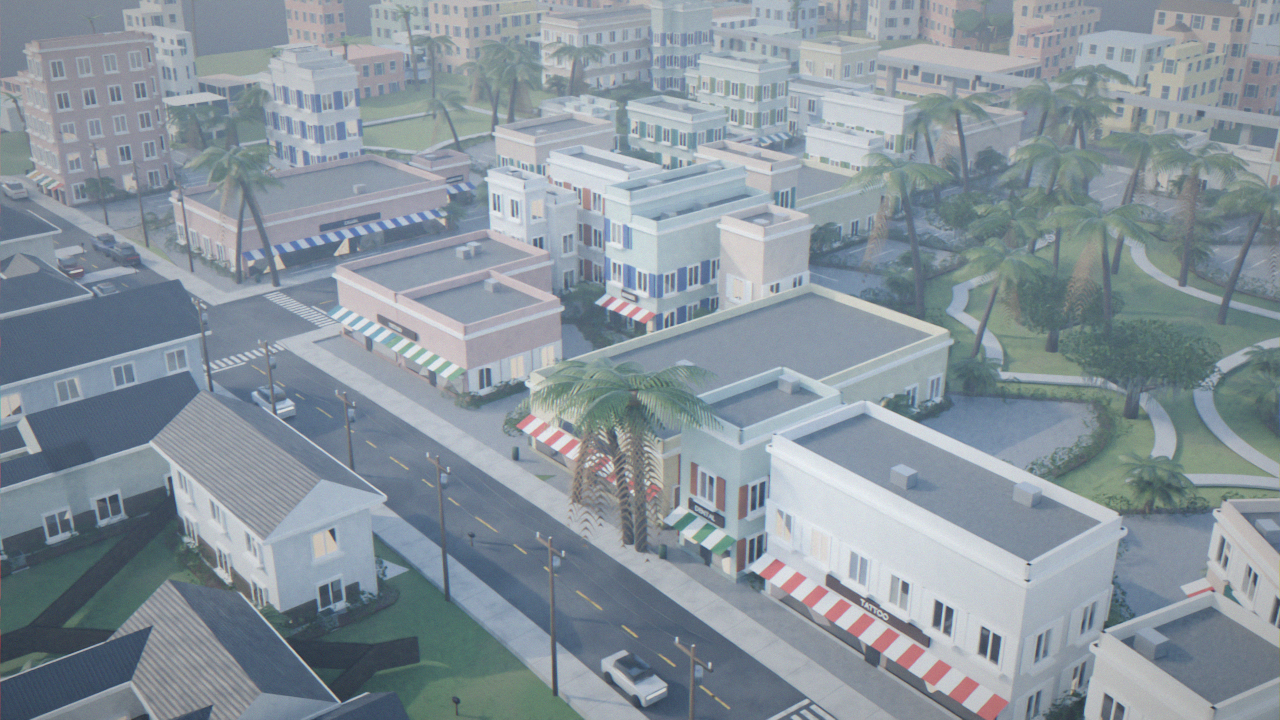
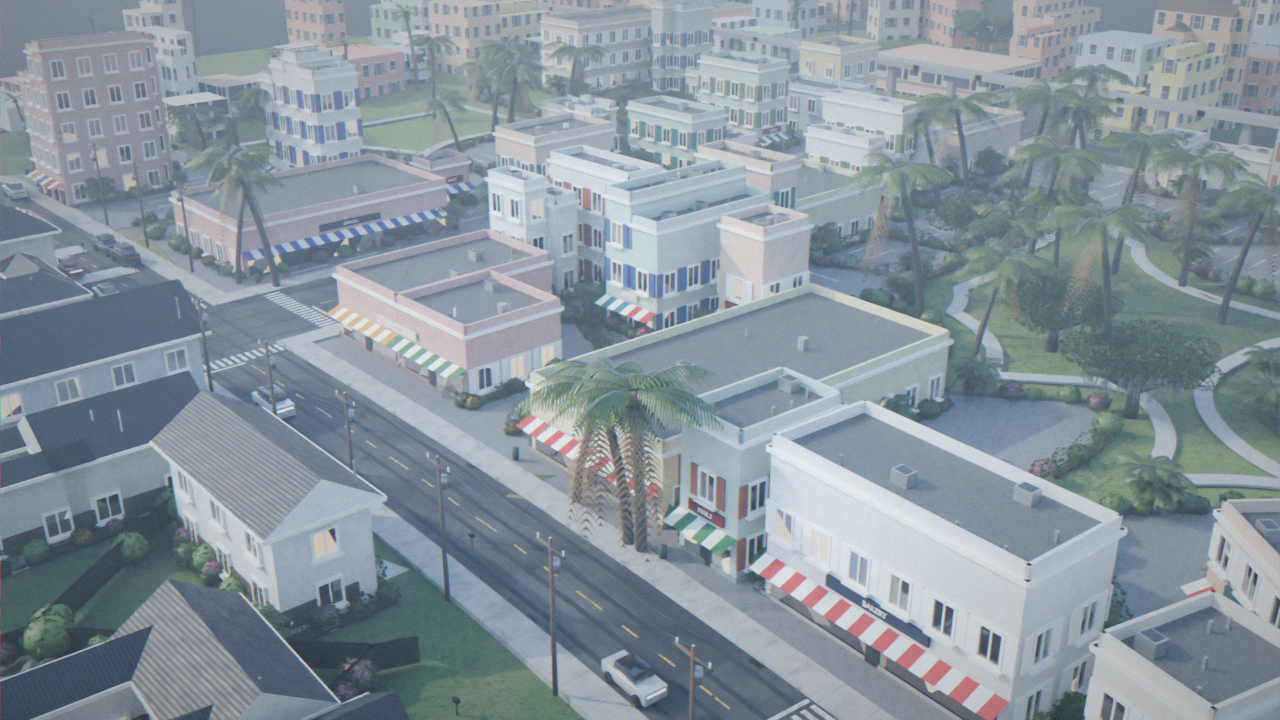
Ground clutter (manholes, drains, tar-sealed cracks, puddles, litter, weeds, fallen fronds), Florida plants (hibiscus, croton, sea grape, bougainvillea on fences), St. Augustine grass, rooftop equipment and house solar panels
Claude-Session: https://claude.ai/code/session_01PWmpu53kThn7KFGp88wUgC

diff --git a/costa-verde/tools/blender/realism.py b/costa-verde/tools/blender/realism.py
@@ -216,7 +216,7 @@ def realify(objs, ground_z):
             "door": mat_simple("real_door", (0, 0, 0), 0.5, vertex=True), "awning": mat_simple("real_awning", (0, 0, 0), 0.85, vertex=True),
             "roof_flat": mat_concrete((0.5, 0.49, 0.46), "real_roof_flat"), "metal": mat_simple("real_metal", (176, 178, 180), 0.35, 0.8),
             "pool": mat_simple("real_pool", (40, 150, 190), 0.03), "paint": mat_simple("real_paint", (0, 0, 0), 0.6, vertex=True),
-            "pole": mat_simple("real_pole", (80, 82, 84), 0.45, 0.7), "lamp": mat_simple("real_lamp", (255, 240, 210), 0.3, emit=(1, 0.85, 0.6))}
+            "pole": mat_simple("real_pole", (80, 82, 84), 0.45, 0.7), "solar": mat_solar(), "lamp": mat_simple("real_lamp", (255, 240, 210), 0.3, emit=(1, 0.85, 0.6))}
     for o in objs:
         me = o.data
         for i, mt in enumerate(me.materials):
@@ -512,6 +512,7 @@ def areca_clump(seed):
 def plant_beds(beds, gy, rng, keep_clear=None):
     """Fill mulch beds and lot-edge strips with shrubs, flowering bushes and areca clumps every few studs."""
     kinds = [shrubs_by_name(n) for n in ("shrub_green", "shrub_pink", "shrub_white", "hedge")]
+    kinds += list(PLANTS.values()) if PLANTS else []
     arecas = [areca_clump(900 + k) for k in range(3)]
     geoms = beds.geoms if hasattr(beds, "geoms") else [beds]
     n = 0
@@ -705,6 +706,7 @@ def street_life(roads, asphalt, junctions, buildings, zone, gy, rng):
 
 
 _SHRUBS = {}
+PLANTS = {}
 
 
 def shrubs_by_name(name):
@@ -738,12 +740,12 @@ def grass(terrain_obj, zone, lawn, density=900000):
     st.factor_random = 0.6
     st.brownian_factor = 0.08
     try:
-        st.root_radius, st.tip_radius = 0.06, 0.0
+        st.root_radius, st.tip_radius = 0.1, 0.02
         st.radius_scale = 1.0
     except AttributeError:
         pass
     st.render_type = "PATH"
-    blade = mat_foliage("grass_blades", (84, 118, 46), 0.35)
+    blade = mat_foliage("grass_blades", (72, 112, 58), 0.35)  # St. Augustine: broad, blue-green
     me.materials.append(blade)
     st.material = len(me.materials)
     return ps
@@ -1082,7 +1084,7 @@ def landcover(detailed, street_area, zone, gy, rng, palms, oaks):
     me.from_pydata(verts, [], faces)
     me.materials.append(fence_mat)
     bpy.context.collection.objects.link(bpy.data.objects.new("fences", me))
-    return unary_union(lawn), unary_union(mulch)
+    return unary_union(lawn), unary_union(mulch), fences
 
 
 def leaf_card(name, length, width, tint):
@@ -1173,4 +1175,169 @@ def real_trees(oaks, palms):
         if c:
             for o in c.objects:
                 foliate(o, shrub_leaf, 260, 1.1)
+    for c in PLANTS.values():  # new species: leaves over the flower-speckled body, which shows through the gaps
+        for o in c.objects:
+            foliate(o, shrub_leaf, 320, 1.2)
+            o.show_instancer_for_render = True
     _ = os
+
+
+def mat_solar():
+    """PV panel: dark blue cells in a silver grid, glossy."""
+    m, nt, b = _nodes("real_solar")
+    grid = _n(nt, "ShaderNodeTexBrick", Scale=0.9, **{"Mortar Size": 0.04})
+    nt.links.new(_coords(nt), grid.inputs["Vector"])
+    grid.inputs["Color1"].default_value = grid.inputs["Color2"].default_value = (0.01, 0.015, 0.04, 1)
+    grid.inputs["Mortar"].default_value = (0.5, 0.5, 0.52, 1)
+    nt.links.new(grid.outputs["Color"], b.inputs["Base Color"])
+    b.inputs["Roughness"].default_value = 0.06
+    b.inputs["Coat Weight"].default_value = 1.0
+    return m
+
+
+# ---------------------------------------------------------------- 5. ground clutter
+
+def _decals(name, polys, y, mat):
+    _slab(name, unary_union(polys) if polys else Polygon(), y - 0.02, y, mat)
+
+
+def clutter(roads, asphalt, walk_outer, zone, gy, rng):
+    """Manholes, storm drains at the curbs, tyre wear, tar-sealed cracks, puddles, litter, weeds in the cracks,
+    fallen palm fronds."""
+    clip = sbox(*zone)
+    manholes, drains, tyres, tar, puddles = [], [], [], [], []
+    for r in roads:
+        ax, az, bx, bz, w = r["ax"], r["az"], r["bx"], r["bz"], r["width"]
+        L = math.hypot(bx - ax, bz - az)
+        if L < 20:
+            continue
+        ux, uz, nx, nz = (bx - ax) / L, (bz - az) / L, -(bz - az) / L, (bx - ax) / L
+        if rng.random() < 0.6:
+            t = rng.uniform(0.2, 0.8) * L
+            manholes.append(Point(ax + ux * t + nx * rng.uniform(-w / 4, w / 4), az + uz * t + nz * rng.uniform(-w / 4, w / 4)).buffer(1.4, 12))
+        for side in (-1, 1):  # storm drain grates at the gutter
+            if rng.random() < 0.5:
+                t = rng.uniform(0.1, 0.9) * L
+                cx, cz = ax + ux * t + nx * (w / 2 - 0.8) * side, az + uz * t + nz * (w / 2 - 0.8) * side
+                drains.append(LineString([(cx - ux * 1.6, cz - uz * 1.6), (cx + ux * 1.6, cz + uz * 1.6)]).buffer(0.7, cap_style="flat"))
+            for lane in (0.25, 0.75):  # polished tyre tracks in each lane
+                o = side * w / 2 * lane
+                tyres.append(LineString([(ax + nx * o, az + nz * o), (bx + nx * o, bz + nz * o)]).buffer(0.7, cap_style="flat"))
+        for _ in range(rng.randint(0, 3)):  # tar-sealed cracks: wiggly lines
+            t0 = rng.uniform(0, L)
+            pts = []
+            x, z = ax + ux * t0 + nx * rng.uniform(-w / 2, w / 2), az + uz * t0 + nz * rng.uniform(-w / 2, w / 2)
+            a = rng.uniform(0, 6.28)
+            for _ in range(rng.randint(4, 10)):
+                pts.append((x, z))
+                a += rng.uniform(-0.8, 0.8)
+                x, z = x + math.cos(a) * 2.5, z + math.sin(a) * 2.5
+            tar.append(LineString(pts).buffer(0.18))
+        if rng.random() < 0.35:  # a puddle in a low spot near the gutter
+            t = rng.uniform(0.2, 0.8) * L
+            cx, cz = ax + ux * t + nx * (w / 2 - 3), az + uz * t + nz * (w / 2 - 3)
+            puddles.append(unary_union([Point(cx + rng.uniform(-3, 3), cz + rng.uniform(-1.5, 1.5)).buffer(rng.uniform(1, 2.6), 10) for _ in range(5)]))
+    road = asphalt.intersection(clip)
+    _decals("manholes", [g.intersection(road) for g in manholes], gy + 0.53, mat_simple("manhole", (52, 50, 46), 0.4, 0.8))
+    _decals("drains", drains, gy + 0.53, mat_simple("drain", (20, 20, 20), 0.5, 0.6))
+    tyre_m = mat_simple("tyre_wear", (36, 36, 38), 0.82)  # subtle: slightly darker, not shinier
+    _ = tyre_m  # shortcut: tyre wear as decals read as painted stripes; needs a blended asphalt-shader mask instead
+    _decals("tar_snakes", [g.intersection(road) for g in tar], gy + 0.51, mat_simple("tar", (8, 8, 8), 0.25))
+    pud = mat_simple("puddle", (14, 16, 18), 0.0)
+    pud.node_tree.nodes["Principled BSDF"].inputs["Coat Weight"].default_value = 1.0
+    _decals("puddles", [g.intersection(road) for g in puddles], gy + 0.515, pud)
+    # litter and weeds
+    litter = []
+    for name, size, col in (("cup", (0.5, 0.5, 0.7), (236, 236, 230)), ("can", (0.35, 0.35, 0.6), (190, 40, 40)), ("paper", (1.0, 0.8, 0.05), (220, 216, 200)),
+                            ("bag", (1.2, 0.9, 0.4), (40, 40, 44))):
+        coll = _collection("litter_" + name)
+        bm = bmesh.new()
+        _cube(bm, (0, 0, size[2] / 2), size, 0)
+        _obj("litter_" + name, bm, [mat_simple("litter_" + name, col, 0.6)], coll)
+        litter.append(coll)
+    weed = _collection("weed")
+    bm = bmesh.new()
+    for k in range(9):
+        a = k * 0.7
+        res = bmesh.ops.create_cone(bm, cap_ends=False, segments=3, radius1=0.12, radius2=0.0, depth=rng.uniform(0.8, 1.8))
+        bmesh.ops.rotate(bm, verts=res["verts"], cent=(0, 0, 0), matrix=__import__("mathutils").Matrix.Rotation(0.4, 3, Vector((math.cos(a), math.sin(a), 0))))
+        bmesh.ops.translate(bm, vec=(math.cos(a) * 0.3, math.sin(a) * 0.3, 0.5), verts=res["verts"])
+    _obj("weed", bm, [mat_foliage("weed_mat", (110, 130, 60), 0.3)], weed)
+    walk = walk_outer.difference(asphalt).intersection(clip)
+    x0, z0, x1, z1 = walk.bounds
+    from shapely.prepared import prep
+    pw = prep(walk)
+    for _ in range(int(walk.area / 260)):
+        x, z = rng.uniform(x0, x1), rng.uniform(z0, z1)
+        if pw.contains(Point(x, z)):
+            place(rng.choice(litter), x, z, gy + 1.0, rng.uniform(0, 6.28))
+    edge = asphalt.intersection(clip).boundary
+    t = 0.0
+    while t < edge.length:  # weeds where the curb meets the road and the sidewalk joints
+        if rng.random() < 0.35:
+            p = edge.interpolate(t)
+            place(weed, p.x, p.y, gy + 0.5, rng.uniform(0, 6.28), rng.uniform(0.6, 1.3))
+        t += 5
+    fallen = mat_frond("fallen_frond", (110, 86, 50), (160, 130, 80))
+    for o in list(bpy.data.objects):  # fallen fronds under palms
+        ic = o.instance_collection
+        if ic and ic.name.startswith("hero_palm") and o.type == "EMPTY":
+            for _ in range(rng.randint(0, 2)):
+                a = rng.uniform(0, 6.28)
+                d = rng.uniform(3, 9)
+                x, y = o.location.x + math.cos(a) * d, o.location.y + math.sin(a) * d
+                L = rng.uniform(6, 11)
+                me = bpy.data.meshes.new("frond")
+                ca, sa = math.cos(a), math.sin(a)
+                me.from_pydata([(x, y, gy + 0.6), (x + ca * L, y + sa * L, gy + 0.6), (x + ca * L - sa * 1.6, y + sa * L + ca * 1.6, gy + 0.62),
+                                (x - sa * 1.2, y + ca * 1.2, gy + 0.62)], [], [(0, 1, 2, 3)])
+                me.uv_layers.new(name="UVMap")
+                me.materials.append(fallen)
+                bpy.context.collection.objects.link(bpy.data.objects.new("frond", me))
+
+
+# ---------------------------------------------------------------- 6. more Florida plants
+
+def florida_plants():
+    """Hibiscus (red flowers), croton (variegated red/yellow), sea grape (big round leaves), bougainvillea (magenta)."""
+    out = {}
+    specs = {"hibiscus": ((50, 90, 40), (200, 30, 40), 2.6, 0.35), "croton": ((150, 120, 30), (180, 50, 30), 2.0, 0.6),
+             "seagrape": ((92, 130, 60), (150, 60, 50), 3.4, 0.15), "bougainvillea": ((60, 90, 40), (200, 40, 140), 3.0, 0.65)}
+    for name, (leaf, flower, size, share) in specs.items():
+        coll = _collection(name)
+        bm = bmesh.new()
+        res = bmesh.ops.create_icosphere(bm, subdivisions=3, radius=1)
+        bmesh.ops.scale(bm, vec=(size, size, size * 0.85), verts=res["verts"])
+        bmesh.ops.translate(bm, vec=(0, 0, size * 0.75), verts=res["verts"])
+        m, nt, b = _nodes(name + "_mat")
+        co = _coords(nt)
+        n1 = _n(nt, "ShaderNodeTexVoronoi", Scale=2.2)
+        nt.links.new(co, n1.inputs["Vector"])
+        c = _mix(nt, _lin(leaf), _lin(flower), _rng(nt, n1.outputs["Distance"], share * 0.6, share * 0.6 + 0.05, 1, 0))
+        nt.links.new(c, b.inputs["Base Color"])
+        b.inputs["Roughness"].default_value = 0.5
+        b.inputs["Subsurface Weight"].default_value = 0.15
+        o = _obj(name, bm, [m], coll)
+        tex = bpy.data.textures.new(name + "_disp", "CLOUDS")
+        tex.noise_scale = 0.45
+        d = o.modifiers.new("leafy", "DISPLACE")
+        d.texture, d.strength = tex, 0.8
+        out[name] = coll
+    return out
+
+
+def plants_on_fences(fence_lines, gy, rng, plants):
+    """Bougainvillea and sea grape spilling over fences; crotons and hibiscus joining the bed mix."""
+    n = 0
+    for fl in fence_lines:
+        for ln in (fl.geoms if hasattr(fl, "geoms") else [fl]):
+            if ln.is_empty or ln.geom_type not in ("LineString", "LinearRing"):
+                continue
+            t = rng.uniform(0, 8)
+            while t < ln.length:
+                if rng.random() < 0.45:
+                    p = ln.interpolate(t)
+                    place(plants["bougainvillea" if rng.random() < 0.6 else "seagrape"], p.x, p.y, gy, rng.uniform(0, 6.28), rng.uniform(0.8, 1.4))
+                    n += 1
+                t += rng.uniform(8, 16)
+    return n

diff --git a/costa-verde/tools/blender/detail_town.py b/costa-verde/tools/blender/detail_town.py
@@ -31,7 +31,7 @@ SURF = {
     "frame": (0.5, 0, None), "roof_tile": (0.75, 0, None), "roof_flat": (0.95, 0, (176, 172, 164)),
     "metal": (0.4, 0.7, (178, 180, 182)), "awning": (0.8, 0, None), "door": (0.6, 0, None), "concrete": (0.9, 0, (198, 194, 186)),
     "asphalt": (0.92, 0, (52, 52, 55)), "paint": (0.7, 0, None), "pool": (0.05, 0, (60, 170, 210)), "wood": (0.8, 0, (150, 118, 84)),
-    "pole": (0.5, 0.6, (90, 92, 94)), "lamp": (0.3, 0, (255, 244, 214)),
+    "pole": (0.5, 0.6, (90, 92, 94)), "lamp": (0.3, 0, (255, 244, 214)), "solar": (0.08, 0.3, (22, 30, 52)),
 }
 PASTEL = [(242, 200, 168), (196, 226, 206), (246, 228, 160), (240, 170, 150), (180, 212, 230), (244, 236, 214), (236, 236, 230)]
 HOUSE_COL = [(246, 240, 224), (236, 226, 200), (214, 222, 200), (206, 220, 230), (240, 214, 190), (250, 250, 246)]
@@ -184,10 +184,38 @@ def flat_roof(m, poly, y, rng, wall_col, big=False):
         m.box("wall", (mx - n[0] * 0.4, y + 1.4, mz - n[1] * 0.4), u, L, 2.8, 0.8, wall_col)
         m.box("trim", (mx + n[0] * 0.3, y - 0.4, mz + n[1] * 0.3), u, L + 1.2, 1.0, 1.4)
     xs, zs = [p[0] for p in poly], [p[1] for p in poly]
+    def spot(margin=4):
+        for _ in range(8):
+            x, z = rng.uniform(min(xs) + margin, max(xs) - margin), rng.uniform(min(zs) + margin, max(zs) - margin)
+            if inside(poly, x, z):
+                return x, z
+        return None
     for _ in range(rng.randint(1, 4 if big else 2)):  # AC units
-        x, z = rng.uniform(min(xs) + 4, max(xs) - 4), rng.uniform(min(zs) + 4, max(zs) - 4)
-        if inside(poly, x, z):
-            m.box("metal", (x, y + 1.6, z), (1, 0), 4, 3, 3)
+        p = spot()
+        if p:
+            m.box("metal", (p[0], y + 1.6, p[1]), (1, 0), 4, 3, 3)
+            m.box("pole", (p[0], y + 3.15, p[1]), (1, 0), 3, 0.1, 2.4)  # fan grille
+    for _ in range(rng.randint(2, 5)):  # vent stacks
+        p = spot(2)
+        if p:
+            m.box("metal", (p[0], y + 1.2, p[1]), (1, 0), 0.6, 2.4, 0.6, (120, 120, 118))
+    if rng.random() < 0.5:  # satellite dish on a stub mast
+        p = spot(3)
+        if p:
+            m.box("pole", (p[0], y + 1.5, p[1]), (1, 0), 0.25, 3, 0.25)
+            m.box("trim", (p[0], y + 3.2, p[1] + 0.4), (0.7, 0.7), 2.4, 2.4, 0.3)
+    if rng.random() < 0.4:  # roof hatch
+        p = spot(3)
+        if p:
+            m.box("metal", (p[0], y + 0.6, p[1]), (1, 0), 3, 1.2, 3, (140, 140, 136))
+    if big and rng.random() < 0.7:  # HVAC duct run
+        p = spot(6)
+        if p:
+            m.box("metal", (p[0], y + 1.2, p[1]), (1, 0), max(6, (max(xs) - min(xs)) * 0.4), 1.6, 1.6)
+    if rng.random() < 0.3:  # water heater / tank
+        p = spot(3)
+        if p:
+            m.box("metal", (p[0], y + 1.8, p[1]), (1, 0), 2.2, 3.6, 2.2, (200, 200, 196))
 
 
 def inside(poly, x, z):
@@ -199,7 +227,7 @@ def inside(poly, x, z):
     return c
 
 
-def pitched_roof(m, poly, y, kind, tile_col, wall_col):
+def pitched_roof(m, poly, y, kind, tile_col, wall_col, rng=None):
     """Hip or gable roof with 2.5-stud eaves over a rectangular part."""
     xs, zs = [p[0] for p in poly], [p[1] for p in poly]
     x0, x1, z0, z1 = min(xs) - 2.5, max(xs) + 2.5, min(zs) - 2.5, max(zs) + 2.5
@@ -221,6 +249,19 @@ def pitched_roof(m, poly, y, kind, tile_col, wall_col):
         m.face("roof_tile", [e[1], r0, r1, e[2]], tile_col)
         m.face("roof_tile", [e[3], r1, r0, e[0]], tile_col)
         ends = [(e[0], r0, e[1]), (e[2], r1, e[3])]
+    if rng and rng.random() < 0.3:  # rooftop solar on the first slope: inset panel array lifted off the tiles
+        a, b, c, d = (e[0], r0, r1, e[1]) if along_x else (e[1], r0, r1, e[2])
+        def lerp(p, q, t):
+            return tuple(p[i] + (q[i] - p[i]) * t for i in range(3))
+        p0, p1 = lerp(a, d, 0.2), lerp(a, d, 0.8)
+        q0, q1 = lerp(b, c, 0.2), lerp(b, c, 0.8)
+        lo0, lo1, hi0, hi1 = lerp(p0, q0, 0.2), lerp(p1, q1, 0.2), lerp(p0, q0, 0.7), lerp(p1, q1, 0.7)
+        lift = lambda p: (p[0], p[1] + 0.35, p[2])  # noqa: E731
+        m.face("solar", [lift(lo0), lift(lo1), lift(hi1), lift(hi0)][::-1] if along_x else [lift(lo0), lift(lo1), lift(hi1), lift(hi0)])
+    if rng:  # plumbing vent pipes through the roof
+        for _ in range(rng.randint(1, 3)):
+            x, z = rng.uniform(x0 + 4, x1 - 4), rng.uniform(z0 + 4, z1 - 4)
+            m.box("metal", (x, y + rh * 0.55, z), (1, 0), 0.4, rh * 0.5 + 2, 0.4, (90, 90, 90))
     for tri in ends:  # hip ends are roof; gable ends are wall
         m.face("roof_tile" if kind == "hip" else "wall", list(tri), tile_col if kind == "hip" else wall_col)
     for a, b in zip(e, e[1:] + e[:1]):  # fascia boards along the eaves
@@ -323,7 +364,7 @@ def building(idx, b):
         rect = len(poly) == 4
         if p["roof"] in ("hip", "gable", "gambrel") and rect:
             m.face("roof_flat", [(x, top, z) for x, z in poly][::-1])
-            pitched_roof(m, poly, top, "hip" if p["roof"] != "gable" else "gable", tile_col, wall_col)
+            pitched_roof(m, poly, top, "hip" if p["roof"] != "gable" else "gable", tile_col, wall_col, rng)
         elif p["roof"] == "spire":
             xs, zs = [q[0] for q in poly], [q[1] for q in poly]
             apex = (sum(xs) / len(xs), top + 10, sum(zs) / len(zs))
@@ -431,8 +472,11 @@ def main_real():
     realism.signs(SIGNS)
     realism.weather(objs)
     realism.haze(CX, CZ, gy)
-    lawn, beds = realism.landcover(detailed, walk_outer, zone, gy, rng, palms, oaks)
+    lawn, beds, fences = realism.landcover(detailed, walk_outer, zone, gy, rng, palms, oaks)
+    realism.PLANTS.update(realism.florida_plants())
     print("bed plants:", realism.plant_beds(beds, gy, rng, walk_outer.buffer(10)))
+    print("fence plants:", realism.plants_on_fences(fences, gy, rng, realism.PLANTS))
+    realism.clutter(roads, asphalt, walk_outer, zone, gy, rng)
     realism.real_trees(oaks, palms)
     terrain = bpy.data.objects["ground"]
     realism.grass(terrain, (CX - 260, CZ - 260, CX + 260, CZ + 260), lawn)
